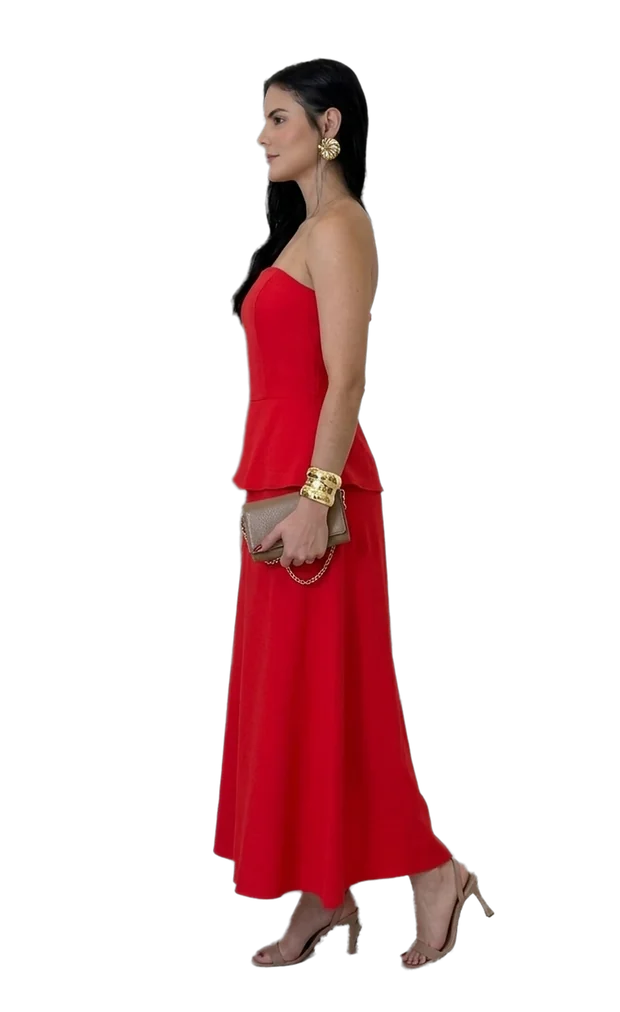
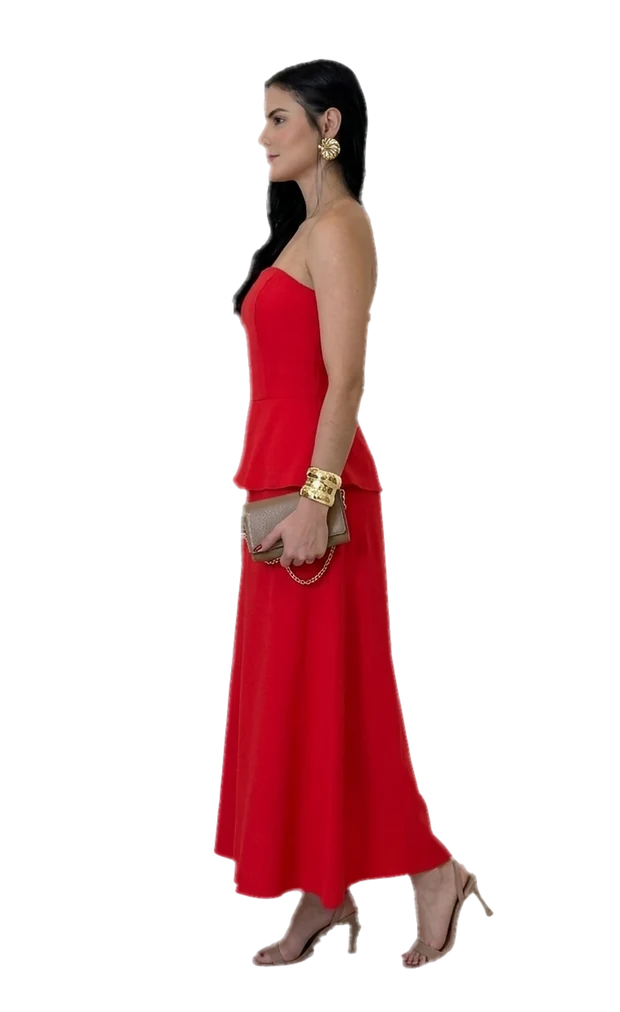
Emporium terracotta-bronze silk backdrop + surgical zero-halo cutouts + slower 360 rhythm

diff --git a/styles.css b/styles.css
@@ -72,9 +72,7 @@ img {
 }
 
 /* ==========================================================================
-   Warm Limestone / Sand Editorial Cyclorama Studio Backdrop
-   High-fashion infinite studio curve (Zara Atelier / Jacquemus / Dior aesthetic)
-   Zero mismatched tiles or perspective clash · Adapts to any store's palette
+   Sculptural Emporium Terracotta-Bronze Liquid Silk Backdrop
    ========================================================================== */
 
 .store-backdrop {
@@ -83,59 +81,43 @@ img {
   z-index: 0;
   pointer-events: none;
   overflow: hidden;
-  background: #ded6ca;
+  background: #16100c;
 }
 
-/* Soft infinite curved studio wall */
-.cyclorama-wall {
+.store-backdrop picture {
+  display: block;
+  width: 100%;
+  height: 100%;
+}
+
+.store-backdrop__img {
+  width: 100%;
+  height: 100%;
+  object-fit: cover;
+  object-position: center center;
+}
+
+/* Soft editorial depth vignette framing the silk curves */
+.store-backdrop__scrim {
   position: absolute;
   inset: 0;
   background:
-    radial-gradient(ellipse 72% 62% at 50% 34%, #f4efe7 0%, #e7dfd4 48%, #d2c6b6 100%);
-}
-
-/* Seamless curved cyclorama studio floor sweep (gently grounded, zero grout lines!) */
-.cyclorama-floor {
-  position: absolute;
-  left: -10%;
-  right: -10%;
-  bottom: 0;
-  height: 36%;
-  background:
-    radial-gradient(ellipse 68% 95% at 50% 10%, rgba(246, 241, 234, 0.85) 0%, rgba(218, 207, 192, 0.92) 55%, rgba(190, 177, 160, 0.98) 100%);
-  mask-image: linear-gradient(180deg, transparent 0%, rgba(0, 0, 0, 0.55) 26%, black 55%);
-  -webkit-mask-image: linear-gradient(180deg, transparent 0%, rgba(0, 0, 0, 0.55) 26%, black 55%);
-}
-
-/* Soft natural studio window key-light (zero dark bar at top — pure clean editorial studio!) */
-.cyclorama-keylight {
-  position: absolute;
-  inset: 0;
-  background:
-    radial-gradient(ellipse 56% 58% at 32% 18%, rgba(255, 253, 249, 0.56) 0%, transparent 68%),
-    radial-gradient(ellipse 76% 84% at 50% 48%, transparent 58%, rgba(86, 68, 52, 0.14) 100%);
+    radial-gradient(ellipse 64% 70% at 50% 46%, rgba(28, 19, 14, 0.08) 0%, rgba(16, 11, 8, 0.42) 72%, rgba(12, 8, 6, 0.68) 100%),
+    linear-gradient(180deg, rgba(16, 11, 8, 0.48) 0%, transparent 18%, transparent 80%, rgba(14, 10, 7, 0.56) 100%);
 }
 
 .store-backdrop__aura {
   position: absolute;
-  width: 52vw;
-  height: 52vh;
+  width: 50vw;
+  height: 50vh;
   left: 50%;
   top: 46%;
   transform: translate(-50%, -50%);
   border-radius: 50%;
   background: radial-gradient(circle, var(--accent-aura) 0%, transparent 72%);
-  filter: blur(115px);
-  opacity: 0.28;
+  filter: blur(110px);
+  opacity: 0.36;
   transition: background 0.9s var(--ease-luxury);
-}
-
-.cyclorama-grain {
-  position: absolute;
-  inset: 0;
-  opacity: 0.028;
-  background-image: radial-gradient(rgba(30, 22, 16, 0.65) 0.5px, transparent 0.5px);
-  background-size: 3px 3px;
 }
 
 /* ==========================================================================
@@ -185,10 +167,11 @@ img {
 .brand-emblem {
   width: 36px;
   height: 32px;
-  color: #2b221b;
+  color: var(--champagne);
   display: grid;
   place-items: center;
   flex-shrink: 0;
+  filter: drop-shadow(0 2px 10px rgba(0, 0, 0, 0.55));
 }
 
 .brand-emblem svg {
@@ -199,24 +182,25 @@ img {
 .brand-text {
   display: flex;
   flex-direction: column;
+  text-shadow: 0 2px 14px rgba(0, 0, 0, 0.55);
 }
 
 .brand-name {
   font-family: var(--serif);
   font-size: 27px;
-  font-weight: 600;
+  font-weight: 500;
   letter-spacing: 0.03em;
   line-height: 0.96;
-  color: #231b15;
+  color: var(--ivory);
 }
 
 .brand-meta {
   font-size: 9.5px;
   letter-spacing: 0.3em;
   text-transform: uppercase;
-  color: #7c563f;
+  color: var(--champagne);
   margin-top: 4px;
-  font-weight: 600;
+  font-weight: 500;
 }
 
 .category-nav {
@@ -903,11 +887,11 @@ img {
 }
 
 .turntable-svg ellipse:first-child {
-  stroke: rgba(48, 38, 30, 0.24);
+  stroke: rgba(250, 246, 239, 0.24);
 }
 
 .turntable-svg #compassArc {
-  stroke: var(--terracotta);
+  stroke: var(--champagne);
 }
 
 #compassArc {
@@ -988,10 +972,10 @@ img {
 
 .turntable-hint {
   font-size: 10px;
-  font-weight: 500;
-  color: rgba(34, 26, 20, 0.78);
-  text-shadow: 0 1px 6px rgba(255, 250, 244, 0.75);
-  letter-spacing: 0.02em;
+  font-weight: 400;
+  color: rgba(250, 246, 239, 0.78);
+  text-shadow: 0 2px 10px rgba(0, 0, 0, 0.75);
+  letter-spacing: 0.03em;
 }
 
 /* Mobile Look Strip hidden on desktop */

diff --git a/app.js b/app.js
@@ -6,7 +6,7 @@
   'use strict';
 
   const EMPORIUM_WHATSAPP = '5527981512375';
-  const CUTOUT_VER = '?v=4';
+  const CUTOUT_VER = '?v=8';
 
   const LOOKS = [
     {
@@ -334,11 +334,10 @@
 
     // Normalize phase t in [-1, 1] across each angle slot
     const t = Math.max(-1, Math.min(1, delta / (step * 0.5)));
-    // Gentle perspective turn (max +-10deg on 8-angle hero, +-14deg on 4-angle looks)
-    const maxTilt = n >= 8 ? 10.5 : 14.5;
+    // Subtle, organic perspective turn so transitions feel natural and fluid
+    const maxTilt = n >= 8 ? 8.0 : 10.5;
     const rotY = (-t * maxTilt).toFixed(2);
-    // Subtle natural breathing/weight shift scale at transition midpoint
-    const scaleX = (1 - Math.abs(t) * 0.018).toFixed(4);
+    const scaleX = (1 - Math.abs(t) * 0.012).toFixed(4);
     dom.modelImgFront.style.transform = `rotateY(${rotY}deg) scaleX(${scaleX})`;
   }
 
@@ -366,11 +365,10 @@
     state.lastFrameTime = now;
     const look = getActiveLook();
 
-    // Fluid continuous runway rhythm: faster through side transitions so 8 angles blend organically,
-    // slowing smoothly ONLY when presenting Frente (0°) & Costas (180°) — zero robotic slideshow feel!
+    // Calm, slower, natural luxury runway pace (~7.5s per full 360° turn on 8-angle hero)
     const rad = (normDeg(state.currentDeg) * Math.PI) / 180;
-    const organicPace = 0.62 + 0.72 * Math.abs(Math.sin(rad));
-    const baseSpeed = look.angles.length >= 8 ? 88 : 68;
+    const organicPace = 0.72 + 0.44 * Math.abs(Math.sin(rad));
+    const baseSpeed = look.angles.length >= 8 ? 46 : 36;
     const autoSpeed = (baseSpeed * organicPace * dt) / 1000;
 
     if (state.autoMode === 'cw') {
@@ -380,7 +378,7 @@
         state.autoProgress = 0;
         state.autoNextDir = 'ccw';
         state.autoMode = 'pause';
-        state.autoPauseUntil = now + 620;
+        state.autoPauseUntil = now + 850;
       }
     } else if (state.autoMode === 'pause') {
       if (now >= state.autoPauseUntil) {
@@ -394,7 +392,7 @@
         state.autoProgress = 0;
         state.autoNextDir = 'cw';
         state.autoMode = 'pause';
-        state.autoPauseUntil = now + 620;
+        state.autoPauseUntil = now + 850;
       }
     } else if (!state.isDragging && Math.abs(state.dragVelocity) > 0.02) {
       // Silky inertial coast after releasing finger/mouse drag
@@ -403,10 +401,10 @@
       if (Math.abs(state.dragVelocity) <= 0.02) state.dragVelocity = 0;
     }
 
-    // Silky spring follow toward targetDeg
+    // Extra-smooth gentle spring follow
     const diff = state.targetDeg - state.currentDeg;
     if (Math.abs(diff) > 0.02) {
-      state.currentDeg += diff * (state.isDragging ? 0.30 : 0.16);
+      state.currentDeg += diff * (state.isDragging ? 0.24 : 0.105);
     } else {
       state.currentDeg = state.targetDeg;
     }

diff --git a/index.html b/index.html
@@ -11,16 +11,17 @@
   <link rel="preconnect" href="https://fonts.googleapis.com" />
   <link rel="preconnect" href="https://fonts.gstatic.com" crossorigin />
   <link href="https://fonts.googleapis.com/css2?family=Cormorant+Garamond:ital,wght@0,400;0,500;0,600;1,400;1,500&family=Plus+Jakarta+Sans:wght@300;400;500;600&display=swap" rel="stylesheet" />
-  <link rel="stylesheet" href="styles.css?v=7" />
+  <link rel="stylesheet" href="styles.css?v=8" />
 </head>
 <body>
-  <!-- Warm Editorial Cyclorama Studio Backdrop (Infinite Luxury Fashion Studio — Zero Perspective Clash) -->
+  <!-- Sculptural Emporium Terracotta-Bronze Silk Editorial Backdrop -->
   <div class="store-backdrop" aria-hidden="true">
-    <div class="cyclorama-wall"></div>
-    <div class="cyclorama-floor"></div>
-    <div class="cyclorama-keylight"></div>
+    <picture>
+      <source media="(max-width: 960px)" srcset="img/silk-bg-mobile.webp?v=8" />
+      <img class="store-backdrop__img" src="img/silk-bg-desktop.webp?v=8" alt="" />
+    </picture>
+    <div class="store-backdrop__scrim"></div>
     <div class="store-backdrop__aura" id="ambientPrimary"></div>
-    <div class="cyclorama-grain"></div>
   </div>
 
   <!-- Top Floating Navigation Bar -->
@@ -222,7 +223,7 @@
 
         <!-- Frameless transparent cutout layers — ZERO border, ZERO box, ZERO card! -->
         <div class="model-cutout-wrap" id="modelCutoutWrap">
-          <img id="modelImgFront" class="model-cutout model-cutout--front" src="img/cutouts/v1_000.webp?v=4" alt="Modelo Emporium vestindo Vestido Longo Terracota" />
+          <img id="modelImgFront" class="model-cutout model-cutout--front" src="img/cutouts/v1_000.webp?v=8" alt="Modelo Emporium vestindo Vestido Longo Terracota" />
           <div class="atelier-aura-flash" id="atelierFlash" aria-hidden="true"></div>
         </div>
 
@@ -433,6 +434,6 @@
   <!-- Toast feedback -->
   <div class="toast" id="toast" role="status" aria-live="polite"></div>
 
-  <script src="app.js?v=6"></script>
+  <script src="app.js?v=8"></script>
 </body>
 </html>
